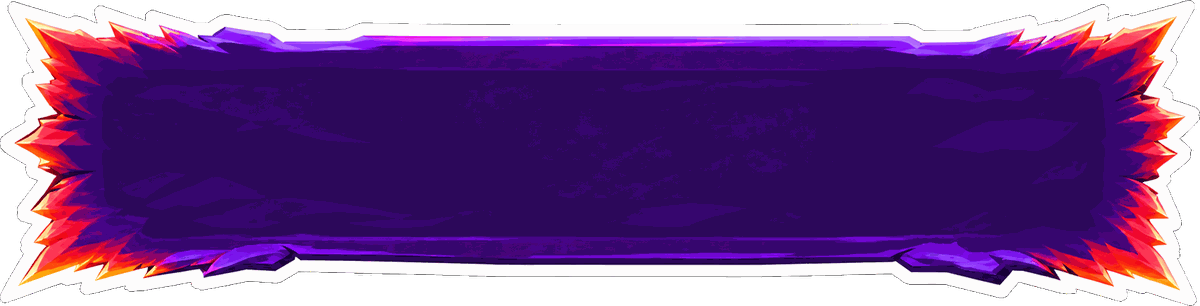
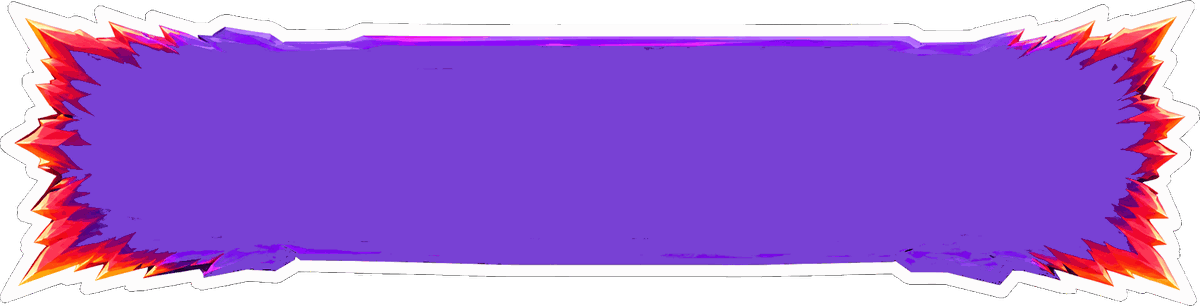
fix(ui): le jeu ne sort plus de sa fenetre, et la banniere respire
⛔ L'APPLICATION NE DOIT JAMAIS RENVOYER AU NAVIGATEUR DU TELEPHONE. Une WebView
y expedie tout ce qu'elle ne sait pas afficher : un lien `target="_blank"`, un
`href` vers un autre domaine, un `window.open`, une redirection d'un module
tiers. Le joueur se retrouve dans Safari, avec des onglets qu'il n'a pas
demandes et une page « connexion impossible » quand il n'a pas de reseau — ce
qui est arrive, et ce qui est inacceptable : le jeu doit tenir dans sa fenetre,
hors ligne comme en ligne.

La porte se ferme au niveau du document, en phase de CAPTURE — avant que le clic
n'atteigne le lien, et quel que soit le code qui l'a pose. `window.open` est
neutralise aussi : un plugin ou un bout de code futur peut l'appeler sans passer
par un lien, et le seul garde-fou qui tienne est celui qui ne depend de
personne.

⚠ AVEC UNE EXCEPTION, ET UNE SEULE. Le lien des conditions d'utilisation doit
rester joignable — les deux boutiques l'exigent, un lien mort y est un motif de
refus. Il passe donc par le navigateur INTEGRE (@capacitor/browser, qui s'ouvre
en feuille par-dessus le jeu et se referme d'un geste) ; et si le plugin manque,
on rend la main au systeme plutot que d'offrir un bouton qui ne fait rien. La
regle cede devant une obligation legale, et devant elle seule.

⛔ LA BOURSE MAUDITE S'AFFICHE MEME A ZERO. Je l'avais masquee tant qu'elle etait
vide, en pensant qu'un compteur a zero n'apprend rien. C'est l'inverse : une
[…]

diff --git a/app/js/boot.js b/app/js/boot.js
@@ -418,6 +418,73 @@ function addHeaderButtons() {
    il fallait deviner qu'un second appui sur l'onglet la refermait — ou
    connaitre le bouton RETOUR d'Android. */
 
+/**
+ * ⛔ L'APPLICATION NE SORT JAMAIS DE L'APPLICATION.
+ *
+ * Une WebView renvoie au navigateur du telephone tout ce qu'elle ne sait pas
+ * afficher elle-meme : un lien `target="_blank"`, un `href` vers un autre
+ * domaine, un `window.open`, une redirection d'un module tiers. Le joueur se
+ * retrouve alors dans Safari, avec des onglets qu'il n'a pas demandes et une
+ * page « connexion impossible » quand il n'a pas de reseau — c'est
+ * exactement ce qui vient d'arriver, et c'est inacceptable : le jeu doit tenir
+ * dans sa fenetre, hors ligne comme en ligne.
+ *
+ * On ferme donc la porte au niveau du document, en phase de CAPTURE — avant
+ * que le clic n'atteigne le lien, et quel que soit le code qui l'a pose. Le
+ * seul lien legitime du jeu, les conditions d'utilisation, passe par le
+ * navigateur INTEGRE quand le telephone en offre un ; sinon il ne fait rien
+ * plutot que d'ejecter le joueur.
+ *
+ * ⚠ `window.open` EST NEUTRALISE AUSSI. Un plugin, une bibliotheque ou un bout
+ * de code futur peut l'appeler sans passer par un lien : le seul garde-fou qui
+ * tienne est celui qui ne depend de personne.
+ */
+function fermerLesPortes() {
+  const dedans = (url) => {
+    try {
+      const u = new URL(url, document.baseURI);
+      return u.origin === location.origin || u.protocol === 'capacitor:' || u.protocol === 'file:';
+    } catch (_) { return false; }
+  };
+
+  const ouvrirDedans = async (url) => {
+    const cap = window.Capacitor;
+    const nav = cap && cap.Plugins && cap.Plugins.Browser;
+    if (nav && typeof nav.open === 'function') {
+      try { await nav.open({ url, presentationStyle: 'popover' }); return true; }
+      catch (_) { /* pas de navigateur integre : on se tait */ }
+    }
+    return false;
+  };
+
+  document.addEventListener('click', (ev) => {
+    const lien = ev.target && ev.target.closest && ev.target.closest('a[href]');
+    if (!lien) return;
+    const url = lien.getAttribute('href') || '';
+    if (!url || url.startsWith('#')) return;
+    if (dedans(url)) return;
+    /* Tout ce qui sort est arrete ici. */
+    ev.preventDefault();
+    ev.stopPropagation();
+    ouvrirDedans(lien.href).then((ok) => {
+      /* ⚠ SI LE NAVIGATEUR INTEGRE MANQUE, ON NE FAIT PAS SEMBLANT. Le lien des
+         conditions doit rester JOIGNABLE — les deux boutiques l'exigent, et un
+         lien mort y est un motif de refus. On rend alors la main au systeme
+         plutot que de laisser le joueur devant un bouton qui ne fait rien : la
+         regle « on ne sort pas de l'application » cede devant une obligation
+         legale, et devant elle seule. */
+      if (!ok) window.location.href = lien.href;
+    });
+  }, true);
+
+  try {
+    window.open = function () {
+      console.warn('[porte] window.open refuse : le jeu ne sort pas de sa fenetre');
+      return null;
+    };
+  } catch (_) { /* certaines WebViews refusent la reaffectation : le clic reste garde */ }
+}
+
 function addSheetBar() {
   const panel = document.getElementById('dc-panel');
   if (!panel || panel.querySelector('.pd-sheet-bar')) return;
@@ -467,6 +534,7 @@ async function start() {
   await openDice();
   addHeaderButtons();
   addSheetBar();
+  fermerLesPortes();
   startFitting();
   wireMotion();
   /* ⚠ LE RIDEAU SE LEVE EN DERNIER, ET C'EST TOUT L'INTERET.

diff --git a/www/js/boot.js b/www/js/boot.js
@@ -418,6 +418,73 @@ function addHeaderButtons() {
    il fallait deviner qu'un second appui sur l'onglet la refermait — ou
    connaitre le bouton RETOUR d'Android. */
 
+/**
+ * ⛔ L'APPLICATION NE SORT JAMAIS DE L'APPLICATION.
+ *
+ * Une WebView renvoie au navigateur du telephone tout ce qu'elle ne sait pas
+ * afficher elle-meme : un lien `target="_blank"`, un `href` vers un autre
+ * domaine, un `window.open`, une redirection d'un module tiers. Le joueur se
+ * retrouve alors dans Safari, avec des onglets qu'il n'a pas demandes et une
+ * page « connexion impossible » quand il n'a pas de reseau — c'est
+ * exactement ce qui vient d'arriver, et c'est inacceptable : le jeu doit tenir
+ * dans sa fenetre, hors ligne comme en ligne.
+ *
+ * On ferme donc la porte au niveau du document, en phase de CAPTURE — avant
+ * que le clic n'atteigne le lien, et quel que soit le code qui l'a pose. Le
+ * seul lien legitime du jeu, les conditions d'utilisation, passe par le
+ * navigateur INTEGRE quand le telephone en offre un ; sinon il ne fait rien
+ * plutot que d'ejecter le joueur.
+ *
+ * ⚠ `window.open` EST NEUTRALISE AUSSI. Un plugin, une bibliotheque ou un bout
+ * de code futur peut l'appeler sans passer par un lien : le seul garde-fou qui
+ * tienne est celui qui ne depend de personne.
+ */
+function fermerLesPortes() {
+  const dedans = (url) => {
+    try {
+      const u = new URL(url, document.baseURI);
+      return u.origin === location.origin || u.protocol === 'capacitor:' || u.protocol === 'file:';
+    } catch (_) { return false; }
+  };
+
+  const ouvrirDedans = async (url) => {
+    const cap = window.Capacitor;
+    const nav = cap && cap.Plugins && cap.Plugins.Browser;
+    if (nav && typeof nav.open === 'function') {
+      try { await nav.open({ url, presentationStyle: 'popover' }); return true; }
+      catch (_) { /* pas de navigateur integre : on se tait */ }
+    }
+    return false;
+  };
+
+  document.addEventListener('click', (ev) => {
+    const lien = ev.target && ev.target.closest && ev.target.closest('a[href]');
+    if (!lien) return;
+    const url = lien.getAttribute('href') || '';
+    if (!url || url.startsWith('#')) return;
+    if (dedans(url)) return;
+    /* Tout ce qui sort est arrete ici. */
+    ev.preventDefault();
+    ev.stopPropagation();
+    ouvrirDedans(lien.href).then((ok) => {
+      /* ⚠ SI LE NAVIGATEUR INTEGRE MANQUE, ON NE FAIT PAS SEMBLANT. Le lien des
+         conditions doit rester JOIGNABLE — les deux boutiques l'exigent, et un
+         lien mort y est un motif de refus. On rend alors la main au systeme
+         plutot que de laisser le joueur devant un bouton qui ne fait rien : la
+         regle « on ne sort pas de l'application » cede devant une obligation
+         legale, et devant elle seule. */
+      if (!ok) window.location.href = lien.href;
+    });
+  }, true);
+
+  try {
+    window.open = function () {
+      console.warn('[porte] window.open refuse : le jeu ne sort pas de sa fenetre');
+      return null;
+    };
+  } catch (_) { /* certaines WebViews refusent la reaffectation : le clic reste garde */ }
+}
+
 function addSheetBar() {
   const panel = document.getElementById('dc-panel');
   if (!panel || panel.querySelector('.pd-sheet-bar')) return;
@@ -467,6 +534,7 @@ async function start() {
   await openDice();
   addHeaderButtons();
   addSheetBar();
+  fermerLesPortes();
   startFitting();
   wireMotion();
   /* ⚠ LE RIDEAU SE LEVE EN DERNIER, ET C'EST TOUT L'INTERET.

diff --git a/www/js/pages/dice.js b/www/js/pages/dice.js
@@ -598,12 +598,14 @@ function renderWallet() {
   $('#dc-wallet').innerHTML = `
     <div class="dc-plaque dc-plaque-or ${tailleBourse(S.me.coins)}"
          title="${esc(t('hdr.coins'))}"><span>${nombre(S.me.coins)}</span></div>
-    <!-- ⚠ LA BOURSE MAUDITE NE S'AFFICHE QUE SI ELLE EXISTE. Un compteur a zero,
-         en permanence, pour une monnaie qu'on n'a pas encore rencontree,
-         n'apprend rien. Elle apparait au premier haut fait, et cette apparition
-         est elle-meme une recompense. -->
-    ${S.me.premium ? `<div class="dc-plaque dc-plaque-maudite ${tailleBourse(S.me.premium)}"
-         title="${esc(t('hdr.cursed'))}"><span>${nombre(S.me.premium)}</span></div>` : ''}
+    <!-- ⛔ LA BOURSE MAUDITE S'AFFICHE TOUJOURS, MEME A ZERO. Je l'avais masquee
+         tant qu'elle etait vide, en pensant qu'un compteur a zero n'apprend
+         rien. C'est l'inverse : une monnaie qu'on ne voit jamais est une
+         monnaie qui n'existe pas. A zero, la plaque POSE LA QUESTION — le
+         joueur cherche comment la remplir, et la reponse est dans les hauts
+         faits. Et la barre ne change plus de forme au premier succes. -->
+    <div class="dc-plaque dc-plaque-maudite ${tailleBourse(S.me.premium || 0)}"
+         title="${esc(t('hdr.cursed'))}"><span>${nombre(S.me.premium || 0)}</span></div>
     <div class="dc-plaque dc-plaque-rang" title="${esc(t('menu.rang'))}">
       <span>${nombre(S.me.rating)}</span><em>${esc(t('menu.rangCourt'))}</em>
     </div>`;

diff --git a/app/css/mobile.css b/app/css/mobile.css
@@ -480,17 +480,29 @@ input, textarea { -webkit-user-select: text; user-select: text; }
   /* La banniere dechiree remplace le fond raye : meme traitement en neuf zones,
      pour que les pointes des extremites gardent leur forme quelle que soit la
      largeur de l'ecran. */
-  --pd-bar-h: 46px;
+  --pd-bar-h: 58px;
   border-style: solid;
-  border-width: 0 26px;
+  border-width: 0 34px;
   border-image-source: url("../dice/img/bar_top_bg.png");
   border-image-slice: 0 150 0 150 fill;
   border-image-repeat: stretch;
   background: none;
   box-shadow: none;
-  padding: 5px 4px;
-  gap: 8px;
+  /* ⚠ LA BANNIERE NE TOUCHE PLUS LES BORDS. Elle est DESSINEE comme une
+     banderole, avec des pointes dechirees a chaque bout : collee au bord, on ne
+     voit plus qu'elle a une fin — elle passe pour un bandeau plein, et ses
+     pointes pour un defaut. Un peu d'air de chaque cote, et elle redevient ce
+     qu'elle est. */
+  margin: 0 10px;
+  padding: 6px 2px 10px;
+  gap: 10px;
 }
+
+/* ⛔ LE TRAIT DORE SOUS LE BANDEAU N'A PLUS LIEU D'ETRE. Il soulignait un
+   bandeau rectangulaire qui allait d'un bord a l'autre ; sous une banderole
+   dechiree et detachee des bords, il passe DERRIERE elle et depasse des deux
+   cotes — « je vois un trait dore derriere la top bar ». */
+#dicewrap .dc-top::after { display: none; }
 
 #dicewrap .dc-wallet {
   display: flex;

diff --git a/www/css/mobile.css b/www/css/mobile.css
@@ -480,17 +480,29 @@ input, textarea { -webkit-user-select: text; user-select: text; }
   /* La banniere dechiree remplace le fond raye : meme traitement en neuf zones,
      pour que les pointes des extremites gardent leur forme quelle que soit la
      largeur de l'ecran. */
-  --pd-bar-h: 46px;
+  --pd-bar-h: 58px;
   border-style: solid;
-  border-width: 0 26px;
+  border-width: 0 34px;
   border-image-source: url("../dice/img/bar_top_bg.png");
   border-image-slice: 0 150 0 150 fill;
   border-image-repeat: stretch;
   background: none;
   box-shadow: none;
-  padding: 5px 4px;
-  gap: 8px;
+  /* ⚠ LA BANNIERE NE TOUCHE PLUS LES BORDS. Elle est DESSINEE comme une
+     banderole, avec des pointes dechirees a chaque bout : collee au bord, on ne
+     voit plus qu'elle a une fin — elle passe pour un bandeau plein, et ses
+     pointes pour un defaut. Un peu d'air de chaque cote, et elle redevient ce
+     qu'elle est. */
+  margin: 0 10px;
+  padding: 6px 2px 10px;
+  gap: 10px;
 }
+
+/* ⛔ LE TRAIT DORE SOUS LE BANDEAU N'A PLUS LIEU D'ETRE. Il soulignait un
+   bandeau rectangulaire qui allait d'un bord a l'autre ; sous une banderole
+   dechiree et detachee des bords, il passe DERRIERE elle et depasse des deux
+   cotes — « je vois un trait dore derriere la top bar ». */
+#dicewrap .dc-top::after { display: none; }
 
 #dicewrap .dc-wallet {
   display: flex;
